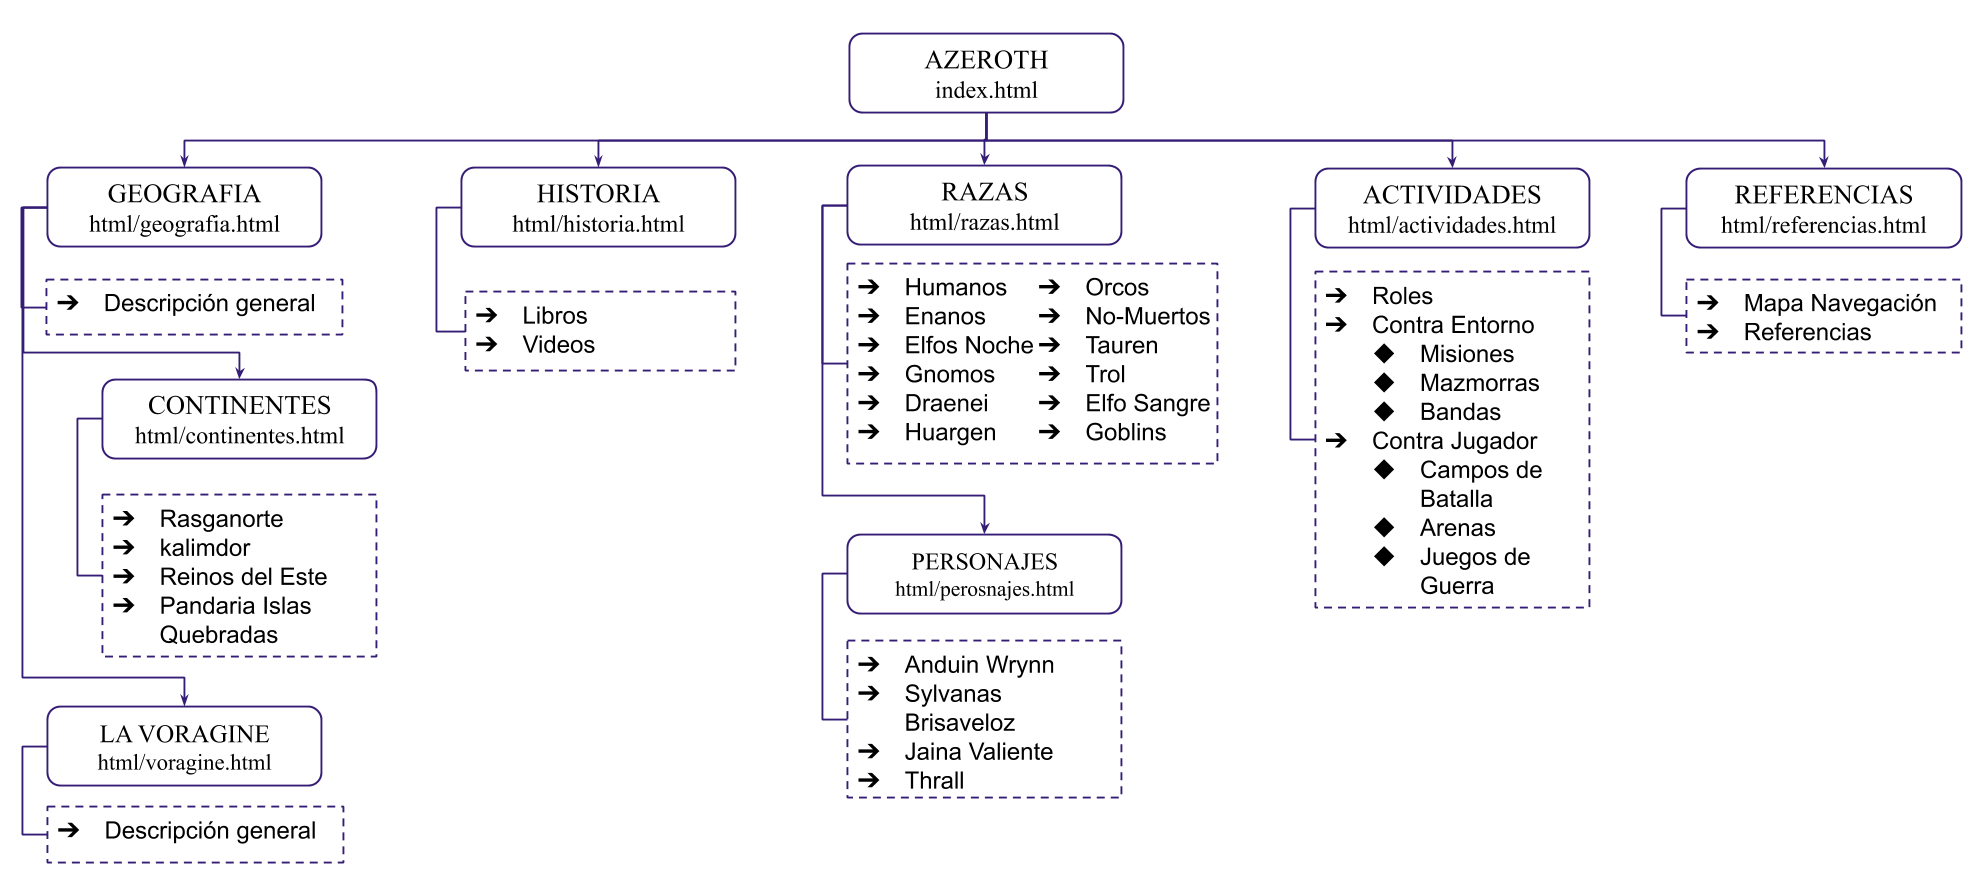
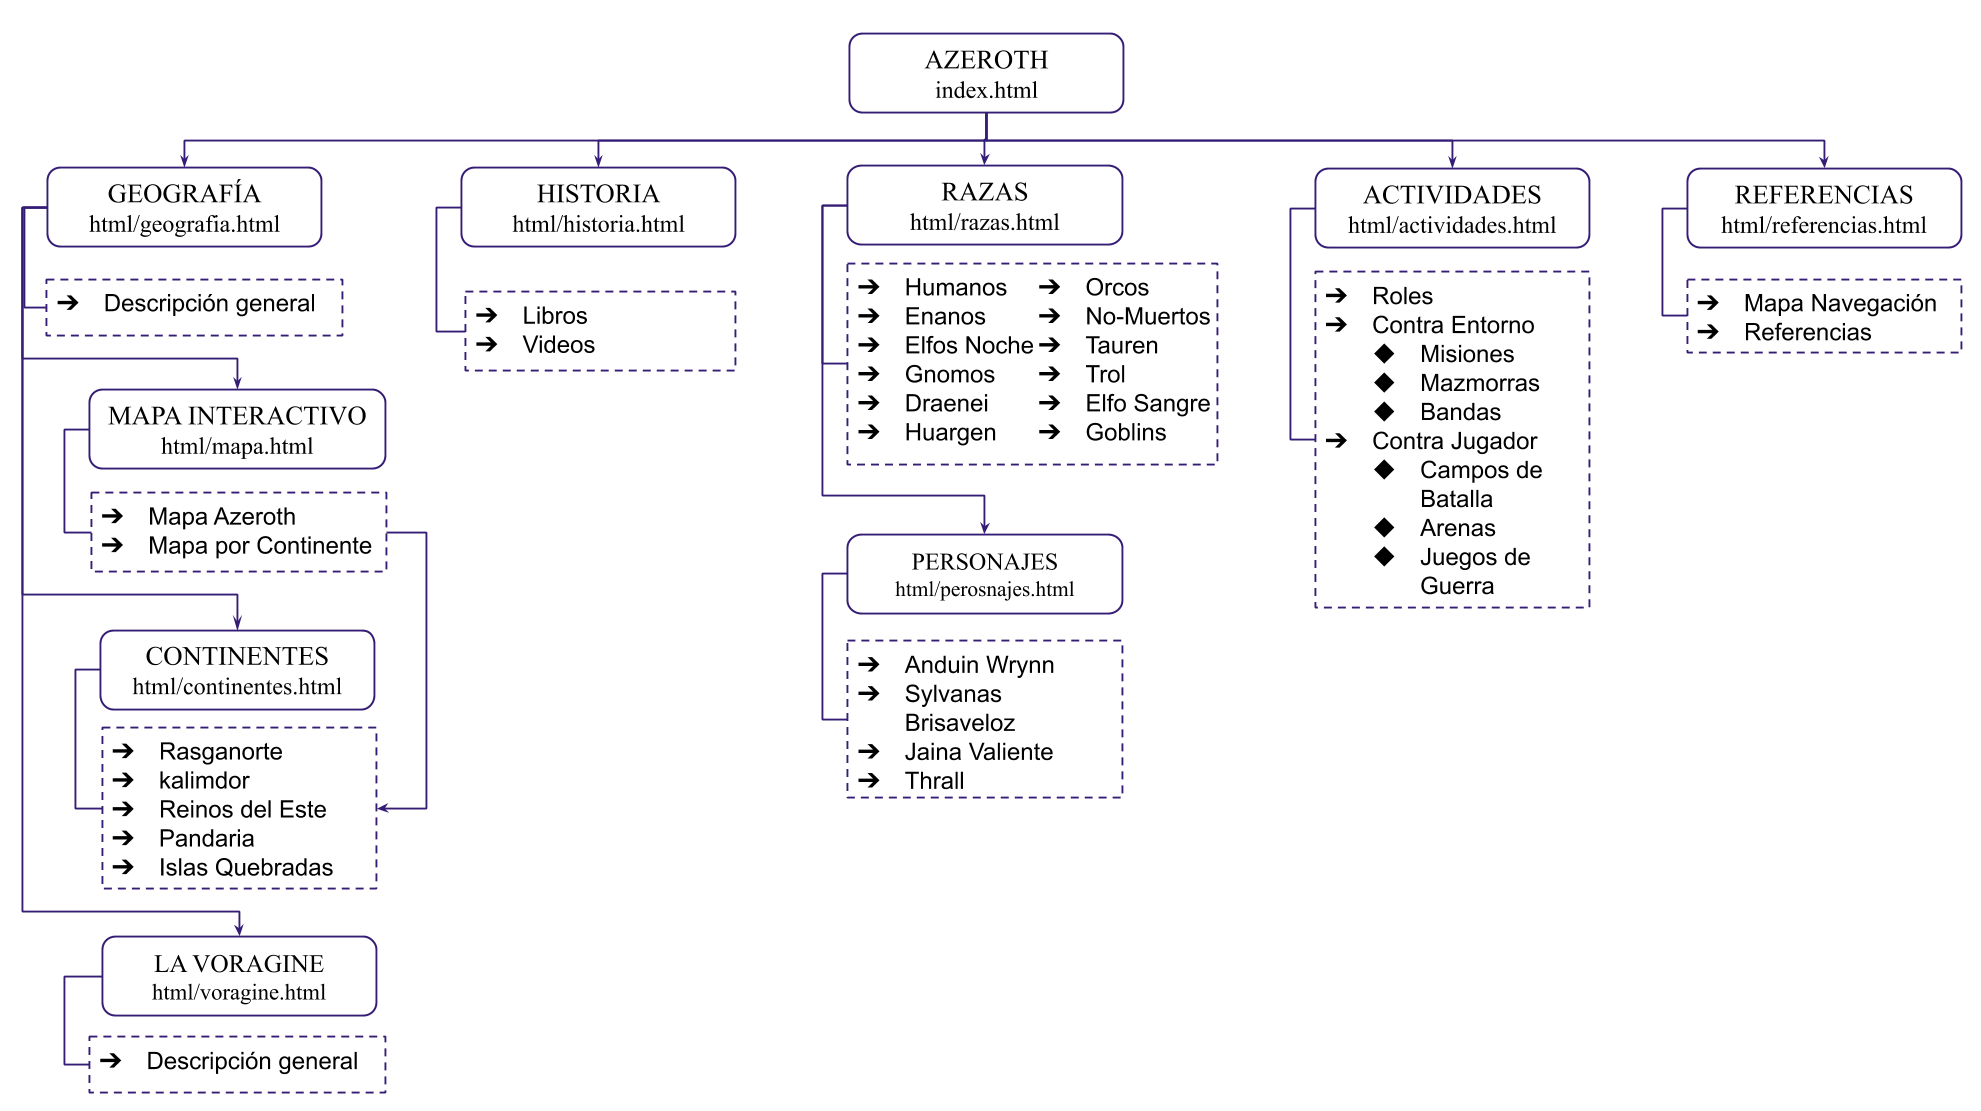
Complemento REFERENCIAS

Changed region(s): [[0.0, 0.0312, 1.0, 0.9688], [0.4003, 0.7812, 0.4311, 0.8125]]

diff --git a/html/referencias.html b/html/referencias.html
@@ -60,6 +60,13 @@
           <li class="liref"><a class="linkref" href="https://wow-es.gamepedia.com/Archivo:TheMaelstrom.jpg" target="_blank">La Voragine:</a> https://wow-es.gamepedia.com/Archivo:TheMaelstrom.jpg</li>
         </ul>
       </li>
+      <li class="liref">Mapa Interactivo:
+        <ul>
+          <li class="liref"><a class="linkref" href="http://diecelript.mihanblog.com/post/archive/1396/12" target="_blank">Sprite Sheet Hipogrifo:</a> http://diecelript.mihanblog.com/post/archive/1396/12</li>
+          <li class="liref"><a class="linkref" href="https://www.klipartz.com/es/sticker-png-oiuvf" target="_blank">Boton Desplazamiento:</a> https://www.klipartz.com/es/sticker-png-oiuvf</li>
+          <li class="liref"><a class="linkref" href="https://www.pinclipart.com/pindetail/biwbbx_back-button-icons-boton-de-volver-png-clipart/" target="_blank">Boton Regresar:</a> https://www.pinclipart.com/pindetail/biwbbx_back-button-icons-boton-de-volver-png-clipart/</li>
+          <li class="liref"><a class="linkref" href="https://www.freepng.es/png-6e3f67/" target="_blank">Boton Ubicacion:</a> https://www.freepng.es/png-6e3f67/</li>
+        </ul>
       <li class="liref">Historia:
         <ul>
           <li class="liref"><a class="linkref" href="https://youtu.be/7EQlnM-Phh8" target="_blank">Lore Completo:</a> https://youtu.be/7EQlnM-Phh8</li>
@@ -94,14 +101,13 @@
           <li class="liref"><a class="linkref" href="https://www.youtube.com/watch?v=ahix7xMQSSw&t=7s" target="_blank">Audio:</a> https://www.youtube.com/watch?v=ahix7xMQSSw&t=7s</li>
         </ul>
       </li>
-
-
-
     </ul>
 
     <h3>MAPA INTERACTIVO</h3>
 
-    <p class="pjust">Eplicacion de la propuesta del mapa INTERACTIVO</p>
+    <p class="pjust">Dentro de la sección de “GEOGRAFIA” se incluyó una nueva pestaña “MAPA INTERACTIVO” en la cual se mantuvo el formato de todo el sitio y se empleó Phaser 2 para incluir el elemento canvas de mapa interactivo, en cuanto a la corrección de estilos, simplemente fue necesario agregar la clase canvas y una nueva clase para la división en la cual se anido el mapa.<br>
+
+    El mapa cuenta con 6 estados, el mapa de Azeroth y uno por cada continente, en todos cuenta  con botones para controlar el desplazamiento del mapa en las 4 direcciones, y la animación de un hipogrifo caminando además de un botón para regresar al estado inicial (mapa de Azeroth), en el estado mapa de Azeroth se ubican botones fijos sobre cada continente los cuales generan el cambio de estado al del continente, dentro de cada uno de estos hay otro botón que abre una nueva pestaña con la información del continente ya presente en la pagina “GEOGRAFIA/CONTINENTES”.</p>
 
     <h3>MAPA DE NAVEGACION</h3>
 
